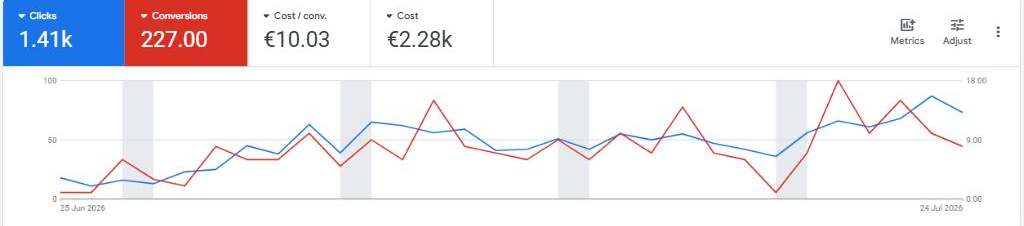
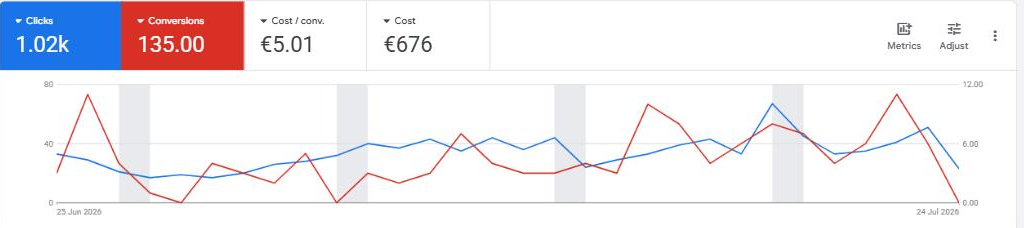
Add files via upload

diff --git a/index.html b/index.html
@@ -317,7 +317,7 @@ footer{padding:50px 0 60px;border-top:1px solid var(--line2);margin-top:0}
   <div class="wrap">
     <span class="eyebrow rv"><span class="dot"></span>Paid + organic · one senior team</span>
     <h1 class="rv d1" style="margin-top:26px">We turn ad spend<br>&amp; content into <span class="ser">revenue.</span></h1>
-    <p class="sub rv d2">One senior team for everything that brings customers in — paid <em>and</em> organic. Google, Meta &amp; TikTok ads, SEO, and the social content that feeds them, run by three specialists who already work as one. Plus AI automation workflows that handle the repetitive work, so more of your budget turns into revenue and less of your time goes to chasing freelancers.</p>
+    <p class="sub rv d2">One senior team for everything that brings <em>leads</em> in — paid and organic. Google, Meta &amp; TikTok ads built around calls and form fills, SEO, and the social content that feeds them, run by three specialists who already work as one. Plus AI automation workflows that handle the repetitive work, so more of your budget turns into booked business and less of your time goes to chasing freelancers.</p>
     <div class="cta rv d3">
       <a class="btn" href="" onclick="Calendly.initPopupWidget({url:'https://calendly.com/agencycresca/30min'});return false;">Book a free call <span class="ic">↗</span></a>
       <a class="btn ghost" href="#proof">See the work <span class="ic">→</span></a>
@@ -387,9 +387,9 @@ footer{padding:50px 0 60px;border-top:1px solid var(--line2);margin-top:0}
     <div class="split2">
       <div class="lane paid rv d1"><div class="shell"><div class="core">
         <div class="h"><span class="pl">Paid</span></div>
-        <h3>Ads that pay for themselves</h3>
-        <p>Google, Meta &amp; TikTok — Search, Performance Max and paid social. Set up, segmented, bid-optimised and automated toward qualified revenue.</p>
-        <div class="items"><span>Google Ads</span><span>Meta Ads</span><span>TikTok Ads</span><span>Performance Max</span><span>Paid social</span><span>Landing pages</span></div>
+        <h3>Ads that bring in leads</h3>
+        <p>Google, Meta &amp; TikTok — Search, local and paid social built to bring in qualified leads, calls and form fills. Set up, segmented, bid-optimised and automated toward booked business, not vanity clicks.</p>
+        <div class="items"><span>Google Ads</span><span>Meta Ads</span><span>TikTok Ads</span><span>Lead-gen campaigns</span><span>Call tracking</span><span>Landing pages</span></div>
       </div></div></div>
       <div class="lane org rv d2"><div class="shell"><div class="core">
         <div class="h"><span class="pl">Organic</span></div>
@@ -412,7 +412,7 @@ footer{padding:50px 0 60px;border-top:1px solid var(--line2);margin-top:0}
       </div></div></div>
       <div class="svc wide rv d2"><div class="shell"><div class="core">
         <div class="icn"><svg viewBox="0 0 24 24"><path d="M6 2h9l3 3v17H6z"/><path d="M9 12h6M9 16h6"/></svg></div>
-        <h3>Ecommerce &amp; reporting</h3><p>Acquisition funnels, landing-page optimisation, and clear reporting that ties every euro of spend to an actual business outcome.</p>
+        <h3>Lead generation &amp; reporting</h3><p>Lead funnels, landing-page and form optimisation, call tracking, and clear reporting that ties every euro of spend to booked business.</p>
       </div></div></div>
     </div>
   </div>
@@ -466,10 +466,11 @@ footer{padding:50px 0 60px;border-top:1px solid var(--line2);margin-top:0}
           <div class="rcell up"><div class="n">41%</div><div class="l">Hidden conversions our workflow recovered</div></div>
           <div class="rcell up"><div class="n">80–90%</div><div class="l">Client retention across the practice</div></div>
         </div>
+        <div style="font-size:11px;color:var(--dim);letter-spacing:.02em;margin:16px 0 8px">Cost per lead by sector · lower is better</div>
         <div class="rbars">
-          <div class="rbar"><span class="k">Footwear D2C</span><span class="track"><span class="fill" style="width:66%"></span></span><span class="v">6.3×</span></div>
-          <div class="rbar"><span class="k">Online retail</span><span class="track"><span class="fill" style="width:54%"></span></span><span class="v">5.2×</span></div>
-          <div class="rbar"><span class="k">Men's fashion</span><span class="track"><span class="fill" style="width:100%"></span></span><span class="v">9.6×</span></div>
+          <div class="rbar"><span class="k">Towing &amp; roadside</span><span class="track"><span class="fill" style="width:100%"></span></span><span class="v">€6.77</span></div>
+          <div class="rbar"><span class="k">First-aid training</span><span class="track"><span class="fill" style="width:70%"></span></span><span class="v">€22.52</span></div>
+          <div class="rbar"><span class="k">Physio &amp; clinics</span><span class="track"><span class="fill" style="width:42%"></span></span><span class="v">€53.54</span></div>
         </div>
         <div class="note">Figures from live accounts under active management. Real dashboard screenshots below.</div>
       </div></div></div>
@@ -498,8 +499,8 @@ footer{padding:50px 0 60px;border-top:1px solid var(--line2);margin-top:0}
       </div>
       <div class="dashframe rv d2">
         <div class="dashbar"><div class="dots"><i></i><i></i><i></i></div><div class="url">ads.google.com › Overview</div></div>
-        <img src="dash-acct-2.png" alt="Google Ads account overview showing 227 conversions at €10.03 cost per conversion over 30 days" loading="lazy">
-        <div class="dashcap"><b>Luggage &amp; travel e-commerce.</b> Product feed cleaned and Performance Max fenced to the ranges with margin, so budget chased sales instead of browsers.</div>
+        <img src="dash-acct-2.png" alt="Google Ads account overview showing 135 conversions at €5.01 cost per conversion over 30 days" loading="lazy">
+        <div class="dashcap"><b>Construction &amp; building services.</b> Search focused on high-intent local job terms, with call tracking on every ad so quote requests came through the phone and form.</div>
       </div>
     </div>
     <div class="dashwrap" style="margin-top:22px">
